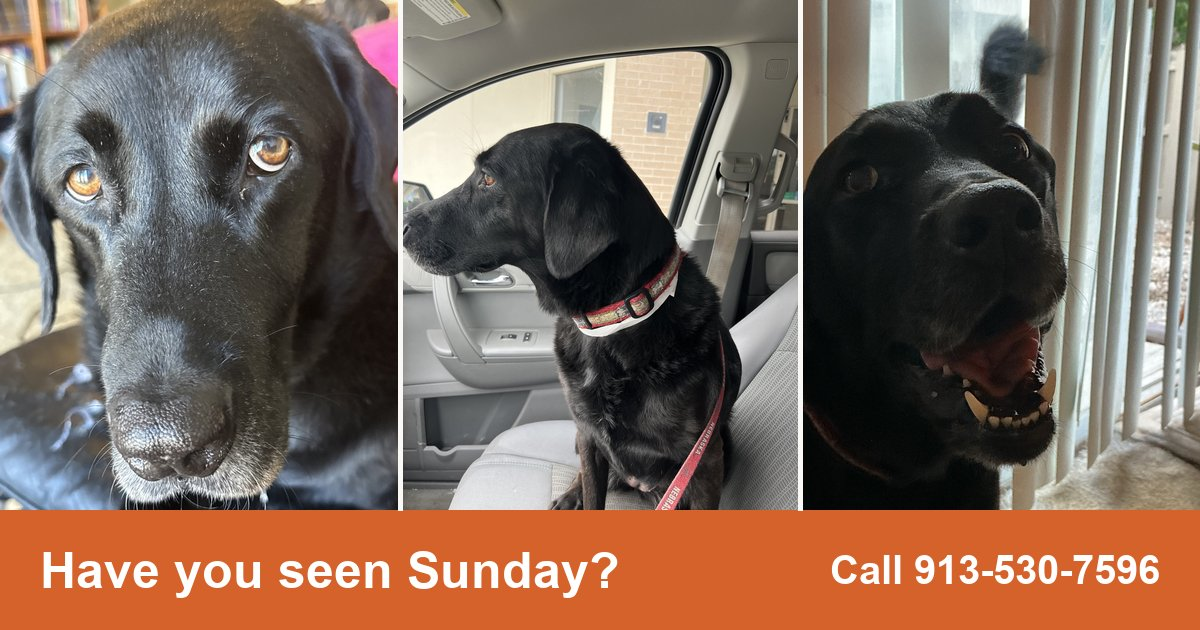
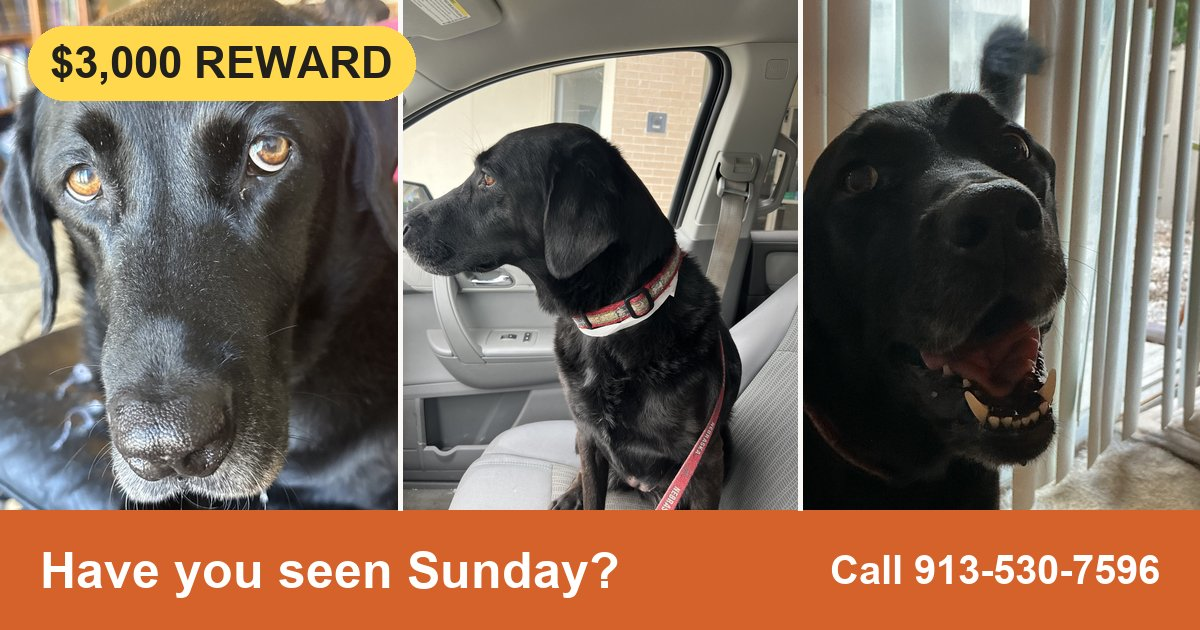
Oct 12 update: scent dogs track Sunday east to Grandview Drive
- Top card replaced with the scent-dog findings and a $3,000 reward badge
- Reward added to the banner, bottom call-to-action, and link preview
- Search map: new first step with the Oct 12 scent trail and the
  "Sunday may be here" area between Grandview Drive and Antioch Road;
  116th Terrace sighting kept as a smaller marker
- "What happens next" updated: neighbors, reward signs, ads and flyers
- Route map's last step links to the new findings

Changed region(s): [[0.0, 0.0302, 0.37, 0.181]]

diff --git a/index.html b/index.html
@@ -4,19 +4,19 @@
 <meta charset="utf-8">
 <meta name="viewport" content="width=device-width, initial-scale=1">
 <title>Help Bring Sunday Home</title>
-<meta name="description" content="Sunday is missing in Overland Park, Kansas. See her route, where we've searched, and how you can help. If you see her, don't chase her. Call 913-530-7596.">
+<meta name="description" content="Sunday is missing in Overland Park, Kansas. $3,000 reward for her safe return. See her route, where we've searched, and how you can help. If you see her, call 913-530-7596.">
 <link rel="canonical" href="https://www.bringsundayhome.com/">
 <meta property="og:type" content="website">
 <meta property="og:url" content="https://www.bringsundayhome.com/">
 <meta property="og:title" content="Help Bring Sunday Home">
-<meta property="og:description" content="Sunday is missing in Overland Park, Kansas. See her route, where we've searched, and how you can help. If you see her, don't chase her. Call 913-530-7596.">
+<meta property="og:description" content="Sunday is missing in Overland Park, Kansas. $3,000 reward for her safe return. See her route, where we've searched, and how you can help. If you see her, call 913-530-7596.">
 <meta property="og:image" content="https://www.bringsundayhome.com/sunday-photos/share.jpg">
 <meta property="og:image:width" content="1200">
 <meta property="og:image:height" content="630">
-<meta property="og:image:alt" content="Three photos of Sunday, a black dog with a graying muzzle. Have you seen Sunday? Call 913-530-7596.">
+<meta property="og:image:alt" content="Three photos of Sunday, a black dog with a graying muzzle. $3,000 reward. Have you seen Sunday? Call 913-530-7596.">
 <meta name="twitter:card" content="summary_large_image">
 <meta name="twitter:title" content="Help Bring Sunday Home">
-<meta name="twitter:description" content="Sunday is missing in Overland Park, Kansas. See her route, where we've searched, and how you can help. If you see her, don't chase her. Call 913-530-7596.">
+<meta name="twitter:description" content="Sunday is missing in Overland Park, Kansas. $3,000 reward for her safe return. See her route, where we've searched, and how you can help. If you see her, call 913-530-7596.">
 <meta name="twitter:image" content="https://www.bringsundayhome.com/sunday-photos/share.jpg">
 <link rel="preconnect" href="https://fonts.googleapis.com">
 <link rel="preconnect" href="https://fonts.gstatic.com" crossorigin>
@@ -164,13 +164,21 @@
   .alert .pulse { width: 12px; height: 12px; border-radius: 50%; background: #fff; box-shadow: 0 0 0 0 rgba(255,255,255,.7); animation: pulse 1.8s infinite; }
   @keyframes pulse { 70% { box-shadow: 0 0 0 12px rgba(255,255,255,0); } 100% { box-shadow: 0 0 0 0 rgba(255,255,255,0); } }
   .alert h2 { font-size: clamp(30px, 5.4vw, 52px); line-height: 1.08; letter-spacing: -.02em; margin: 0 0 12px; max-width: 900px; }
-  .alert p { margin: 0 0 18px; font-size: 18px; max-width: 760px; color: #fdf1ea; }
+  .alert p { margin: 0 0 14px; font-size: 18px; max-width: 820px; color: #fdf1ea; }
+  .alert #alertBody { margin-bottom: 20px; }
+  .alert .reward-pill { background: #ffd84d !important; color: #22201c !important; padding: 3px 10px; border-radius: 999px; }
+  .banner .reward { display: inline-block; background: #ffd84d; color: #22201c; font-weight: 700; font-size: 14px; padding: 2px 9px; border-radius: 999px; margin-left: 6px; vertical-align: 2px; }
   .alert-actions { display: flex; flex-wrap: wrap; gap: 10px; }
   .a-btn { display: inline-flex; align-items: center; justify-content: center; padding: 13px 20px; border-radius: 12px; font-weight: 700; font-size: 16px; text-decoration: none; border: 2px solid #fff; }
   .a-btn.light { background: #fff; color: #22201c; }
   .a-btn.outline { color: #fff; }
   .a-btn:hover { filter: brightness(.95); }
   .a-btn:focus-visible { outline: 3px solid #ffd7c2; outline-offset: 3px; }
+  .mk.scentstop .dot { width: 14px; height: 14px; background: #e0447c; border: 3px solid #fff; box-shadow: 0 1px 4px rgba(0,0,0,.3); }
+  .mk.scentstop .lbl { color: #b8285e; }
+  .mk.tag.purple .lbl { background: #7b4fd0; color: #fff; }
+  .mk.sighting.small .dot { width: 12px; height: 12px; border-width: 2px; }
+  .mk.sighting.small .lbl { font-size: 11.5px; }
   .mk.sighting .dot { width: 20px; height: 20px; background: #b24c1b; border: 3px solid #fff; box-shadow: 0 2px 6px rgba(0,0,0,.35); }
   .mk.sighting .ring { position: absolute; width: 20px; height: 20px; transform: translate(-50%, -50%); border-radius: 50%; border: 2px solid #b24c1b; animation: ring 2.4s ease-out infinite; }
   .mk.sighting .lbl { background: #b24c1b; color: #fff; }
@@ -195,7 +203,7 @@
   /* What happens next */
   .next { margin-top: 56px; scroll-margin-top: 16px; }
   .next .sec { font-size: clamp(24px, 3.4vw, 30px); line-height: 1.2; margin: 0 0 6px; letter-spacing: -.01em; }
-  .next-list { list-style: none; padding: 0; margin: 16px 0 0; display: grid; grid-template-columns: repeat(3, 1fr); gap: 12px; }
+  .next-list { list-style: none; padding: 0; margin: 16px 0 0; display: grid; grid-template-columns: repeat(2, 1fr); gap: 12px; }
   .next-list li { display: flex; gap: 14px; background: var(--surface); border: 1px solid var(--hair); border-radius: var(--radius); padding: 18px; }
   .next-list .n { flex: none; width: 30px; height: 30px; border-radius: 50%; background: var(--sunday-soft); color: var(--sunday); font-weight: 700; display: grid; place-items: center; }
   .next-list h3 { font-size: 18px; line-height: 1.3; margin: 0 0 6px; }
@@ -204,6 +212,7 @@
   .next-cta { margin-top: 16px; background: var(--sunday-soft); border-radius: var(--radius); padding: 16px 18px; font-size: 17px; }
   .next-cta strong { display: block; }
 
+  .search-link { color: var(--sunday); font-weight: 700; }
   .banner a, .callout a, .next-cta a { color: var(--sunday); font-weight: 700; text-decoration-thickness: 1.5px; text-underline-offset: 2px; }
   body.has-call .wrap { padding-bottom: 110px; }
 
@@ -242,9 +251,9 @@
 <div class="wrap">
 
   <section class="alert" id="alert" aria-labelledby="alertTitle" hidden>
-    <p class="alert-eyebrow"><span class="pulse" aria-hidden="true"></span><span>Update</span><span id="alertDate"></span></p>
+    <p class="alert-eyebrow"><span class="pulse" aria-hidden="true"></span><span>Update</span><span id="alertDate"></span><span class="reward-pill" id="alertReward" hidden></span></p>
     <h2 id="alertTitle"></h2>
-    <p id="alertBody"></p>
+    <div id="alertBody"></div>
     <div class="alert-actions">
       <a class="a-btn light" href="#search" id="alertMap">See it on the map</a>
       <a class="a-btn outline" id="alertCall" hidden></a>
@@ -298,7 +307,7 @@
   <section class="section-search" id="search" aria-labelledby="searchTitle">
     <span class="updated" id="updatedTag"></span>
     <h2 class="sec" id="searchTitle">Where the search stands</h2>
-    <p class="lede">Shaded areas have already been searched, but that doesn't mean Sunday isn't there. It just means people have been looking in those areas. The area outlined in red has not been searched yet, and that's where we need the most help.</p>
+    <p class="lede">Purple shows where Sunday may be, based on what scent dogs found on October 12. Other shaded areas have already been searched, but that doesn't mean Sunday isn't there. It just means people have been looking in those areas. The area outlined in red has not been searched yet.</p>
 
     <div class="stage">
       <div id="searchMap" class="map-el" role="img" aria-label="Map of Indian Creek and the surrounding neighborhoods in Overland Park, Kansas, showing which areas have been searched for Sunday. The same information is in the text summary below the map."></div>
@@ -329,20 +338,28 @@
         <span class="n" aria-hidden="true">1</span>
         <div>
           <p class="when">A call to neighbors</p>
-          <h3>Please check your yards</h3>
-          <p>We're asking neighbors in Shannon Valley Estates, Indian Creek Estates, Hunter's Pointe, Rolling Woods, and South Woods to check their back yards, side yards, and under porches and decks.</p>
+          <h3>Keep an eye out and check your yards</h3>
+          <p>If you're out in the evening, especially between Grandview Drive and Antioch Road from College Boulevard to 116th Terrace, please keep an eye out. We're also asking neighbors in Shannon Valley Estates, Indian Creek Estates, Hunter's Pointe, Rolling Woods, and South Woods to check their back yards, side yards, and under porches and decks.</p>
         </div>
       </li>
       <li>
         <span class="n" aria-hidden="true">2</span>
         <div>
-          <p class="when">Monday, October 12</p>
-          <h3>A new team of scent tracking dogs arrives</h3>
-          <p>Several scent tracking dogs will join the search for Sunday.</p>
+          <p class="when">$3,000 reward</p>
+          <h3>Reward signs along College Boulevard</h3>
+          <p>Pawz at Play is offering a $3,000 reward for Sunday's safe return. We're reprinting signs to post along College Boulevard.</p>
         </div>
       </li>
       <li>
         <span class="n" aria-hidden="true">3</span>
+        <div>
+          <p class="when">Spreading the word</p>
+          <h3>Ads and flyers</h3>
+          <p>We're starting a Facebook and Instagram ad campaign about Sunday and the reward, and handing out tri-fold flyers in Shannon Valley and surrounding neighborhoods.</p>
+        </div>
+      </li>
+      <li>
+        <span class="n" aria-hidden="true">4</span>
         <div>
           <p class="when">Every day</p>
           <h3>We won't stop looking</h3>
@@ -454,17 +471,17 @@ const CONFIG = {
   showSearchBanner: true,      // set to false once Sunday is home
   sightingsPhone: "913-530-7596",  // blank shows a placeholder
   dogPhotoUrl: "",             // optional photo of Sunday for the banner
-  searchUpdated: "October 11, 2026",  // shown on "Where the search stands"
+  searchUpdated: "October 12, 2026",  // shown on "Where the search stands"
+  reward: "$3,000 reward for Sunday's safe return",  // blank hides the reward everywhere
   // Big alert card at the top of the page. Set to null to hide it.
   latestUpdate: {
-    date: "As of Monday, October 12",
-    title: "Possible Sunday sighting at 116th and Grant Drive",
-    body: "Sunday was seen moving westbound on 116th Terrace. If you live or walk nearby, please check your yard and keep watch. If you see Sunday, call us right away.",
-    mapLabel: "Possible sighting, Oct 12",
-    lngLat: [-94.69153, 38.91717],  // W 116th Terrace & Grant Dr
-    // Direction she was moving: west along W 116th Terrace (OpenStreetMap geometry)
-    heading: [[-94.69153,38.91717],[-94.69219,38.91737],[-94.69249,38.91744],[-94.69283,38.9174],[-94.69315,38.9173],[-94.69343,38.91718],[-94.69374,38.91704],[-94.69398,38.91696],[-94.6944,38.91692],[-94.69519,38.91692],[-94.69541,38.91695],[-94.69563,38.91705]],
-    headingLabel: "Heading west on 116th Terrace",
+    date: "Monday, October 12",
+    title: "Scent dogs tracked Sunday east to Grandview Drive",
+    body: [
+      "Three scent dogs confirmed Sunday's path from Pawz at Play to the DoubleTree Hotel, and up to Grant Drive. Then they followed her scent east towards Grandview Drive, where it stops. She may be on the east side of Shannon Valley, not the west side as we first thought.",
+      "At this point, with limited sightings, we have to consider that someone may have picked her up. Please continue to keep an eye out for her, check with your neighbors who may not be on social media, continue to share our posts about her, and keep a lookout on the shelter and rescue groups for any dog that looks like Sunday!",
+    ],
+    mapStep: "grandview",  // "See it on the map" opens this step of the search map
   },
 };
 
@@ -551,7 +568,8 @@ const STEPS = [
   {
     time: "Last seen",
     title: "Sunday heads south toward Shannon Valley Park",
-    body: ["Sunday got back up and headed south into the Shannon Valley neighborhood, toward the tennis courts at Shannon Valley Park.", "This is the last confirmed sighting of Sunday."],
+    body: ["Sunday got back up and headed south into the Shannon Valley neighborhood, toward the tennis courts at Shannon Valley Park.", "This is the last confirmed sighting of Sunday.", "On October 12, scent dogs tracked her east along College Boulevard to Grandview Drive."],
+    searchLink: true,
     sighting: true,
     sunday: null, sundaySeen: true,
     view: { bounds: [[-94.69760, 38.92800], [-94.69580, 38.92500]], maxZoom: 18 },
@@ -615,8 +633,8 @@ if (CONFIG.showSearchBanner) {
   const b = $("banner");
   b.hidden = false;
   b.innerHTML = `${CONFIG.dogPhotoUrl ? `<img src="${esc(CONFIG.dogPhotoUrl)}" alt="Sunday">` : ""}
-    <div><strong>Have you seen Sunday?</strong>
-    <p>Please don't chase or call out to her. Note the time and place, and call ${phoneHTML()}.</p></div>`;
+    <div><strong>Have you seen Sunday?${CONFIG.reward ? `<span class="reward">${esc(CONFIG.reward)}</span>` : ""}</strong>
+    <p>If you see her, or hear of anyone who picked up a dog that looks like her, call ${phoneHTML()}. Please don't chase or call out to her.</p></div>`;
 }
 
 // Latest update alert
@@ -625,13 +643,14 @@ if (CONFIG.latestUpdate) {
   $("alert").hidden = false;
   $("alertDate").textContent = u.date;
   $("alertTitle").textContent = u.title;
-  $("alertBody").textContent = u.body;
+  $("alertBody").innerHTML = [].concat(u.body).map((t) => `<p>${esc(t)}</p>`).join("");
+  if (CONFIG.reward) { $("alertReward").hidden = false; $("alertReward").textContent = CONFIG.reward.replace(/ for .*$/, ""); }
   if (CONFIG.sightingsPhone) {
     $("alertCall").hidden = false;
     $("alertCall").href = telHref();
     $("alertCall").textContent = `Call ${CONFIG.sightingsPhone}`;
   }
-  $("alertMap").addEventListener("click", () => window.focusSighting && window.focusSighting());
+  $("alertMap").addEventListener("click", () => window.focusSearchStep && window.focusSearchStep(u.mapStep));
 }
 
 // Text timeline (same data as the map)
@@ -778,7 +797,9 @@ function renderCard(i) {
   const sighting = s.sighting && CONFIG.showSearchBanner
     ? `<div class="callout"><strong>If you see Sunday</strong>Please don't chase or call out to her. Note the time and place, and call ${phoneHTML()}.</div>`
     : "";
-  $("cardBody").innerHTML = `<p class="eyebrow">${esc(s.time)}</p><h2>${esc(s.title)}</h2>${s.body.map((p) => `<p>${esc(p)}</p>`).join("")}${unseenNote}${more}${sighting}`;
+  const searchLink = s.searchLink ? `<p><a href="#search" class="search-link" id="searchLink">See where the search stands &darr;</a></p>` : "";
+  $("cardBody").innerHTML = `<p class="eyebrow">${esc(s.time)}</p><h2>${esc(s.title)}</h2>${s.body.map((p) => `<p>${esc(p)}</p>`).join("")}${searchLink}${unseenNote}${more}${sighting}`;
+  if (s.searchLink) $("searchLink").addEventListener("click", () => window.focusSearchStep && window.focusSearchStep("grandview"));
   if (s.more) $("moreBtn").addEventListener("click", openHow);
   $("count").textContent = `${i + 1} of ${STEPS.length}`;
   $("prevBtn").disabled = i === 0;
@@ -952,7 +973,7 @@ $("howDialog").addEventListener("click", (e) => { if (e.target === $("howDialog"
 if (CONFIG.showSearchBanner) {
   const cta = $("nextCta");
   cta.hidden = false;
-  cta.innerHTML = `<strong>Think you've seen Sunday?</strong>Please don't chase or call out to her. Note the time and place, and call ${phoneHTML()}.`;
+  cta.innerHTML = `<strong>Seen Sunday, or heard of someone who picked up a dog like her?</strong>Please call ${phoneHTML()}. If you see her, don't chase or call out to her.${CONFIG.reward ? ` ${esc(CONFIG.reward)}.` : ""}`;
   const fab = $("callFab");
   fab.hidden = false;
   document.body.classList.add("has-call");
@@ -975,11 +996,14 @@ if (CONFIG.showSearchBanner) {
     blue:   { color: "#2b7bb9", fill: 0.10, dash: true,  polys: [[[-94.70042,38.93552],[-94.70028,38.93683],[-94.69534,38.93694],[-94.69477,38.94141],[-94.68742,38.94152],[-94.68629,38.94054],[-94.68432,38.94174],[-94.67796,38.94181],[-94.67753,38.93431],[-94.68629,38.93486],[-94.70042,38.93552]], [[-94.70509,38.93503],[-94.70353,38.93442],[-94.68615,38.93381],[-94.68615,38.92739],[-94.70509,38.92743],[-94.70509,38.93503]], [[-94.70495,38.92704],[-94.68658,38.92715],[-94.6868,38.91825],[-94.68884,38.91782],[-94.6911,38.91694],[-94.69562,38.91694],[-94.69845,38.9176],[-94.70466,38.91764],[-94.70495,38.92704]]] },
     yellow: { color: "#d4a300", fill: 0.28, dash: false, polys: [[[-94.69449,38.93552],[-94.69421,38.93617],[-94.69138,38.93672],[-94.68742,38.93748],[-94.68644,38.93715],[-94.68587,38.93595],[-94.68474,38.93595],[-94.68432,38.93573],[-94.6781,38.93547],[-94.6781,38.93497],[-94.68573,38.93512],[-94.69279,38.93512],[-94.69449,38.93552]], [[-94.70028,38.93431],[-94.69392,38.93442],[-94.69294,38.93394],[-94.69308,38.93311],[-94.69449,38.93289],[-94.69675,38.93278],[-94.6976,38.9325],[-94.69816,38.93267],[-94.69887,38.93344],[-94.69986,38.93377],[-94.70028,38.93431]], [[-94.70466,38.93337],[-94.70331,38.93359],[-94.70367,38.93246],[-94.70359,38.93115],[-94.7024,38.93038],[-94.70085,38.9301],[-94.69929,38.93071],[-94.69774,38.93093],[-94.69689,38.92994],[-94.69652,38.92874],[-94.69689,38.92765],[-94.70466,38.92761],[-94.70466,38.93337]], [[-94.69901,38.92699],[-94.69633,38.92704],[-94.69596,38.92546],[-94.69732,38.9247],[-94.69845,38.92372],[-94.69992,38.92258],[-94.70093,38.92315],[-94.7,38.92459],[-94.69929,38.92568],[-94.69901,38.92699]]] },
     green:  { color: "#2e8b57", fill: 0.22, dash: false, polys: [[[-94.7041,38.92175],[-94.70283,38.9212],[-94.70127,38.92262],[-94.70071,38.92306],[-94.69986,38.92262],[-94.69986,38.92109],[-94.69901,38.92066],[-94.69816,38.92055],[-94.69811,38.91782],[-94.70212,38.91804],[-94.70353,38.91978],[-94.7041,38.92175]]] },
+    // Where Sunday may be, from the Oct 12 scent dogs (traced from the search team's map)
+    maybe:  { color: "#7b4fd0", fill: 0.20, dash: false, polys: [[[-94.69148,38.92736],[-94.6872,38.92728],[-94.6872,38.92673],[-94.68772,38.92665],[-94.68779,38.92587],[-94.68772,38.92534],[-94.68802,38.92477],[-94.68794,38.92424],[-94.6866,38.9243],[-94.68657,38.92199],[-94.68645,38.91944],[-94.69129,38.9195],[-94.6914,38.92164],[-94.69188,38.92268],[-94.69166,38.92303],[-94.69129,38.92355],[-94.69125,38.92453],[-94.69118,38.92477],[-94.69144,38.92587],[-94.69159,38.92604],[-94.69155,38.92734],[-94.69148,38.92736]]] },
     red:    { color: "#cf3440", fill: 0.10, dash: false, polys: [[[-94.70636,38.92164],[-94.70565,38.92153],[-94.70523,38.92109],[-94.70509,38.91301],[-94.71922,38.9129],[-94.71823,38.91367],[-94.71399,38.9141],[-94.71201,38.91563],[-94.7106,38.91716],[-94.70918,38.91847],[-94.70749,38.92022],[-94.70692,38.92131],[-94.70636,38.92164]]] },
   };
   const LEGEND = [
-    { key: "creek",  label: "Indian Creek: Sunday's likely route", swatch: "background:repeating-linear-gradient(90deg,#d4622a 0 6px,transparent 6px 10px);height:4px" },
-    { key: "scent",  label: "Scent tracking dog route", swatch: "background:#e0447c;height:4px;border-radius:2px" },
+    { key: "grandview", label: "Where Sunday may be (Oct 12)", swatch: "background:rgba(123,79,208,.3);border:2px solid #7b4fd0" },
+    { key: "creek",  label: "Indian Creek", swatch: "background:repeating-linear-gradient(90deg,#d4622a 0 6px,transparent 6px 10px);height:4px" },
+    { key: "scent",  label: "Scent tracking dog routes", swatch: "background:#e0447c;height:4px;border-radius:2px" },
     { key: "green",  label: "Searched on foot, by drone and scent dog", swatch: "background:rgba(46,139,87,.35);border:2px solid #2e8b57" },
     { key: "yellow", label: "Searched thoroughly", swatch: "background:rgba(242,194,48,.5);border:2px solid #d4a300" },
     { key: "blue",   label: "Searched by thermal drone", swatch: "background:rgba(43,123,185,.15);border:2px dashed #2b7bb9" },
@@ -987,6 +1011,12 @@ if (CONFIG.showSearchBanner) {
   ];
   // Scent tracking dog route, Sat Oct 10, 11:30 PM (traced from the search team's map)
   const SCENT = [[-94.69734,38.92705],[-94.69761,38.92592],[-94.69805,38.92479],[-94.69868,38.92395],[-94.69939,38.92331],[-94.69992,38.92289],[-94.70037,38.92239],[-94.70073,38.92155],[-94.70096,38.92042],[-94.70103,38.91929],[-94.70099,38.91781]];
+  // Scent dogs, Mon Oct 12: Pawz at Play -> DoubleTree -> Grant Drive -> east on College to Grandview Drive
+  const SCENT2 = [[-94.70105,38.92632],[-94.7012,38.92664],[-94.7015,38.92672],[-94.70185,38.9267],[-94.70212,38.92706],[-94.7024,38.92745],[-94.70262,38.9279],[-94.7015,38.92776],[-94.7,38.92772],[-94.6985,38.9277],[-94.697,38.9277],[-94.6962,38.92775],[-94.694,38.92769],[-94.69148,38.92763]];
+  const GRANDVIEW = [-94.69148, 38.92763];  // College Blvd & Grandview Dr
+  // Possible sighting, Mon Oct 12: moving west on W 116th Terrace from Grant Drive
+  const SIGHT = [-94.69153, 38.91717];
+  const SIGHT_HEADING = [[-94.69153,38.91717],[-94.69219,38.91737],[-94.69249,38.91744],[-94.69283,38.9174],[-94.69315,38.9173],[-94.69343,38.91718],[-94.69374,38.91704],[-94.69398,38.91696],[-94.6944,38.91692],[-94.69519,38.91692],[-94.69541,38.91695],[-94.69563,38.91705]];
   const SCHOOL = [-94.69900, 38.91900];
   const BRIDGE69 = [-94.70370, 38.92040];
   const HOME = [-94.67632, 38.94064];  // The Club at Indian Creek Apartment Homes (Google Maps)
@@ -995,7 +1025,15 @@ if (CONFIG.showSearchBanner) {
     {
       key: "all", time: `As of ${CONFIG.searchUpdated}`,
       title: "Where we've searched so far",
-      body: ["Pawz at Play staff, volunteers, Sunday's owner and friends have been searching since Friday morning. Each shaded area has already been searched.", "That doesn't mean Sunday isn't there. It just means we've had people looking in the area.", "Tap Next to see each area, and where we still need help."],
+      body: ["Pawz at Play staff, volunteers, Sunday's owner and friends have been searching since Friday morning. Each shaded area has already been searched.", "That doesn't mean Sunday isn't there. It just means we've had people looking in the area.", "Tap Next to see the newest findings first, then each area."],
+    },
+    {
+      key: "grandview", time: "Monday, October 12",
+      title: "Scent dogs track Sunday east to Grandview Drive",
+      body: ["Three scent dogs followed Sunday's scent from Pawz at Play to the DoubleTree hotel, up to Grant Drive, then east along College Boulevard to Grandview Drive, where the scent stops.", "The purple area shows where Sunday may be, based on what the scent dogs found. This is a possibility, not a certainty. Someone may also have picked her up."],
+      sub: "Out walking in the evening?",
+      bullets: ["Please keep an eye out between Grandview Drive and Antioch Road, from College Boulevard to 116th Terrace."],
+      sighting: true,
     },
     {
       key: "creek", time: "Sunday's likely route",
@@ -1047,6 +1085,7 @@ if (CONFIG.showSearchBanner) {
     if (key === "all" || key === "creek") return ALL_BOUNDS;
     const b = new maplibregl.LngLatBounds();
     if (key === "scent") { SCENT.forEach((pt) => b.extend(pt)); return b.toArray(); }
+    if (key === "grandview") { [...SCENT2.slice(6), ...AREAS.maybe.polys[0]].forEach((pt) => b.extend(pt)); return b.toArray(); }
     AREAS[key].polys.forEach((poly) => poly.forEach((pt) => b.extend(pt)));
     return b.toArray();
   }
@@ -1079,10 +1118,10 @@ if (CONFIG.showSearchBanner) {
 
   function emphasize(key) {
     for (const [k, a] of Object.entries(AREAS)) {
-      const on = key === "all" || key === k;
+      const on = key === "all" || key === k || (k === "maybe" && key === "grandview");
       smap.setPaintProperty(`a-${k}-fill`, "fill-opacity", a.fill * (on ? 1 : 0.3));
       smap.setPaintProperty(`a-${k}-line`, "line-opacity", on ? 1 : 0.3);
-      smap.setPaintProperty(`a-${k}-line`, "line-width", key === k ? 3.5 : 2);
+      smap.setPaintProperty(`a-${k}-line`, "line-width", key === k || (k === "maybe" && key === "grandview") ? 3.5 : 2);
     }
     const creekOn = key === "all" || key === "creek" || key === "red";
     smap.setPaintProperty("creek-line", "line-opacity", creekOn ? 1 : 0.45);
@@ -1091,6 +1130,10 @@ if (CONFIG.showSearchBanner) {
     smap.setPaintProperty("scent-line", "line-opacity", scentOn ? 1 : 0.35);
     smap.setPaintProperty("scent-halo", "line-opacity", scentOn ? 0.9 : 0);
     smap.setPaintProperty("scent-line", "line-width", key === "scent" ? 5 : 3.5);
+    const scent2On = key === "all" || key === "grandview";
+    smap.setPaintProperty("scent2-line", "line-opacity", scent2On ? 1 : 0.35);
+    smap.setPaintProperty("scent2-halo", "line-opacity", scent2On ? 0.9 : 0);
+    smap.setPaintProperty("scent2-line", "line-width", key === "grandview" ? 5 : 3.5);
   }
 
   function renderS(i) {
@@ -1142,16 +1185,10 @@ if (CONFIG.showSearchBanner) {
     `<p><b>${esc(s.title)}.</b> ${[...(s.body || []), ...(s.bullets || [])].map(esc).join(" ")}</p>`).join("");
   renderS(0);
 
-  // "See it on the map" in the alert card zooms here
-  window.focusSighting = () => {
-    const u = CONFIG.latestUpdate;
-    if (!u || !u.lngLat) return;
-    const b = new maplibregl.LngLatBounds(u.lngLat, u.lngLat);
-    (u.heading || []).forEach((pt) => b.extend(pt));
-    // leave room for the labels on either side of the line
-    const pad = narrow() ? { top: 50, bottom: 50, left: 70, right: 90 } : { top: 70, bottom: 70, left: 200, right: 180 };
-    const go = () => smap.fitBounds(b, { padding: pad, maxZoom: 16.5, duration: reduceMotion ? 0 : 1600, essential: true });
-    sReady ? setTimeout(go, 400) : smap.once("load", () => setTimeout(go, 400));
+  // Buttons elsewhere on the page ("See it on the map") open a step of this map
+  window.focusSearchStep = (key) => {
+    const i = Math.max(0, SSTEPS.findIndex((st) => st.key === key));
+    setTimeout(() => sGoTo(i), 400);
   };
 
   smap.on("load", () => {
@@ -1170,25 +1207,22 @@ if (CONFIG.showSearchBanner) {
     smap.addLayer({ id: "scent-halo", type: "line", source: "scent", layout: { "line-cap": "round", "line-join": "round" }, paint: { "line-color": "#fff", "line-width": 8, "line-opacity": 0.9 } });
     smap.addLayer({ id: "scent-line", type: "line", source: "scent", layout: { "line-cap": "round", "line-join": "round" }, paint: { "line-color": "#e0447c", "line-width": 3.5 } });
 
+    smap.addSource("scent2", { type: "geojson", data: { type: "Feature", properties: {}, geometry: { type: "LineString", coordinates: SCENT2 } } });
+    smap.addLayer({ id: "scent2-halo", type: "line", source: "scent2", layout: { "line-cap": "round", "line-join": "round" }, paint: { "line-color": "#fff", "line-width": 8, "line-opacity": 0.9 } });
+    smap.addLayer({ id: "scent2-line", type: "line", source: "scent2", layout: { "line-cap": "round", "line-join": "round" }, paint: { "line-color": "#e0447c", "line-width": 3.5 } });
+
     tag("pawz", "Pawz at Play", "l", P.pawz);
     tag("last", "Last seen", "r", P.median);
     tag("place", "Indian Valley Elementary", "r", SCHOOL);
     tag("place", "US-69 bridge", "l", BRIDGE69);
     tag("home", "Sunday's home", "l", HOME);
     tag("tag red", "Not searched yet", "b", [-94.71300, 38.91590]);
-    if (CONFIG.latestUpdate && CONFIG.latestUpdate.lngLat) {
-      const u = CONFIG.latestUpdate;
-      if (u.heading) {
-        smap.addSource("sighting", { type: "geojson", data: { type: "Feature", properties: {}, geometry: { type: "LineString", coordinates: u.heading } } });
-        smap.addLayer({ id: "sighting-halo", type: "line", source: "sighting", layout: { "line-cap": "round", "line-join": "round" }, paint: { "line-color": "#fff", "line-width": 9, "line-opacity": 0.9 } });
-        smap.addLayer({ id: "sighting-line", type: "line", source: "sighting", layout: { "line-cap": "round", "line-join": "round" }, paint: { "line-color": "#b24c1b", "line-width": 4, "line-dasharray": [1.4, 1.2] } });
-        const end = u.heading[u.heading.length - 1];
-        const arrow = tag("place arrow", u.headingLabel, "l", end);
-        arrow.querySelector(".dot").outerHTML = '<span class="dot" style="width:0;height:0;border:0;background:none;border-top:8px solid transparent;border-bottom:8px solid transparent;border-right:13px solid #b24c1b;border-radius:0"></span>';
-      }
-      const el = tag("sighting", u.mapLabel, "r", u.lngLat);
-      el.insertAdjacentHTML("afterbegin", '<span class="ring"></span>');
-    }
+    tag("scentstop", "Scent stops at Grandview Dr", "t", GRANDVIEW);
+    tag("tag purple", "Sunday may be here", "b", [-94.68900, 38.92330]);
+    // Possible sighting (Oct 12), smaller marker with her direction of travel
+    smap.addSource("sighting", { type: "geojson", data: { type: "Feature", properties: {}, geometry: { type: "LineString", coordinates: SIGHT_HEADING } } });
+    smap.addLayer({ id: "sighting-line", type: "line", source: "sighting", layout: { "line-cap": "round", "line-join": "round" }, paint: { "line-color": "#b24c1b", "line-width": 3, "line-dasharray": [1.4, 1.2] } });
+    tag("sighting small", "Possible sighting, Oct 12", "r", SIGHT);
     sReady = true;
     sGoTo(sCur);
   });
